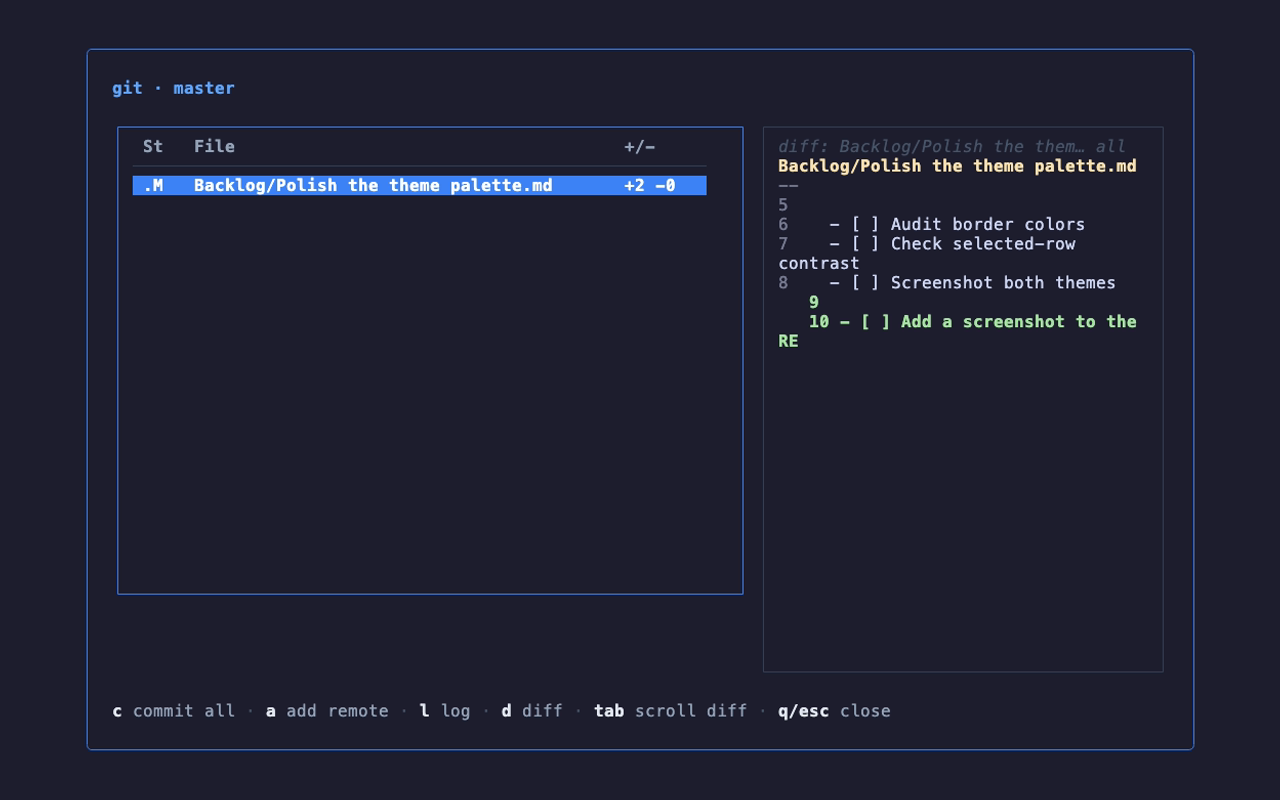
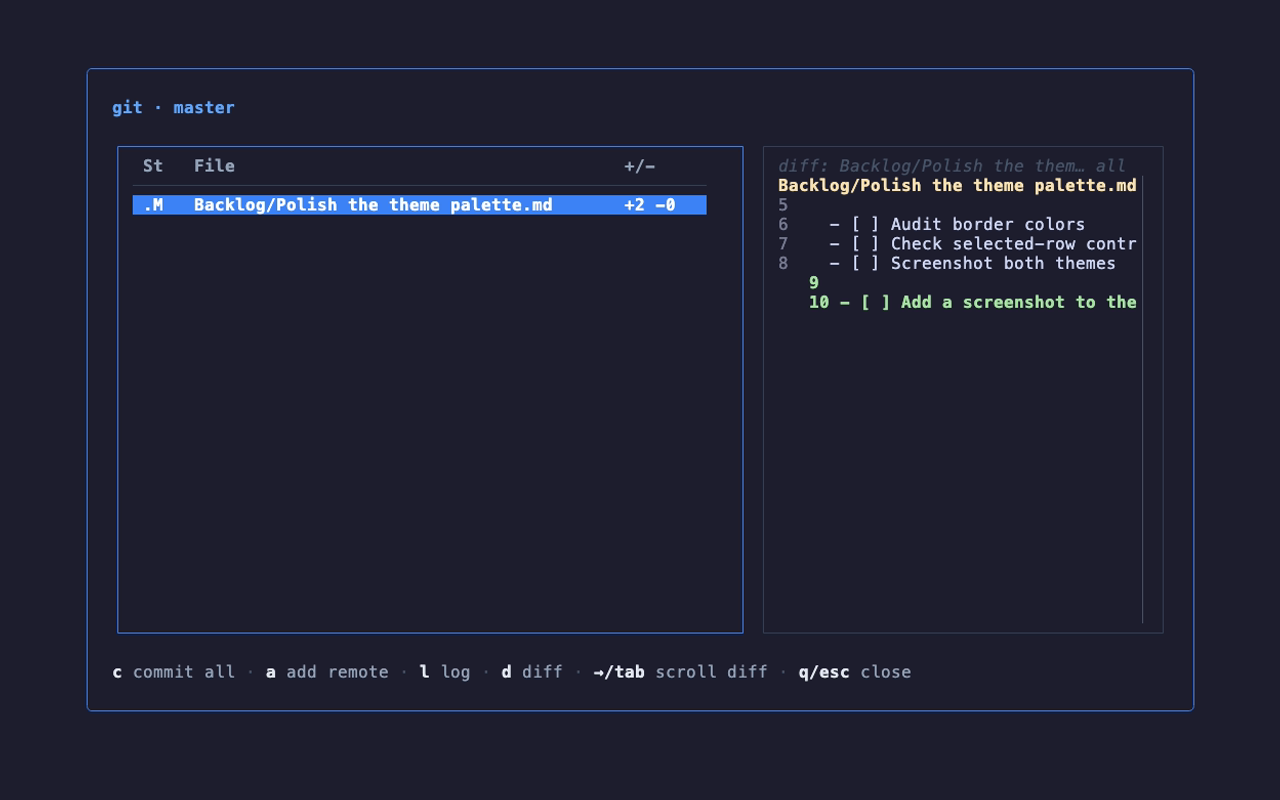
docs: regenerate screenshots against v0.5.0 build, bump version badge
The screenshots tape still passed --no-mcp, which the current binary
rejects (MCP is opt-in via --mcp since the flag inversion), so captures
showed a shell error. Drop the flag and recapture; bump the README
version badge from v0.1.0 to v0.5.0.

diff --git a/README.md b/README.md
@@ -8,7 +8,7 @@
 [![Bubble Tea](https://img.shields.io/badge/TUI-Bubble%20Tea-FF75B7)](https://github.com/charmbracelet/bubbletea)
 [![Lua](https://img.shields.io/badge/Scripting-Lua%205.1-000080?logo=lua&logoColor=white)](./SCRIPTING.md)
 [![MCP](https://img.shields.io/badge/MCP-ready-6E56CF)](https://modelcontextprotocol.io)
-![Version](https://img.shields.io/badge/version-v0.1.0-brightgreen)
+![Version](https://img.shields.io/badge/version-v0.5.0-brightgreen)
 
 *Your board is just a folder. Columns are directories. Cards are Markdown files.*
 